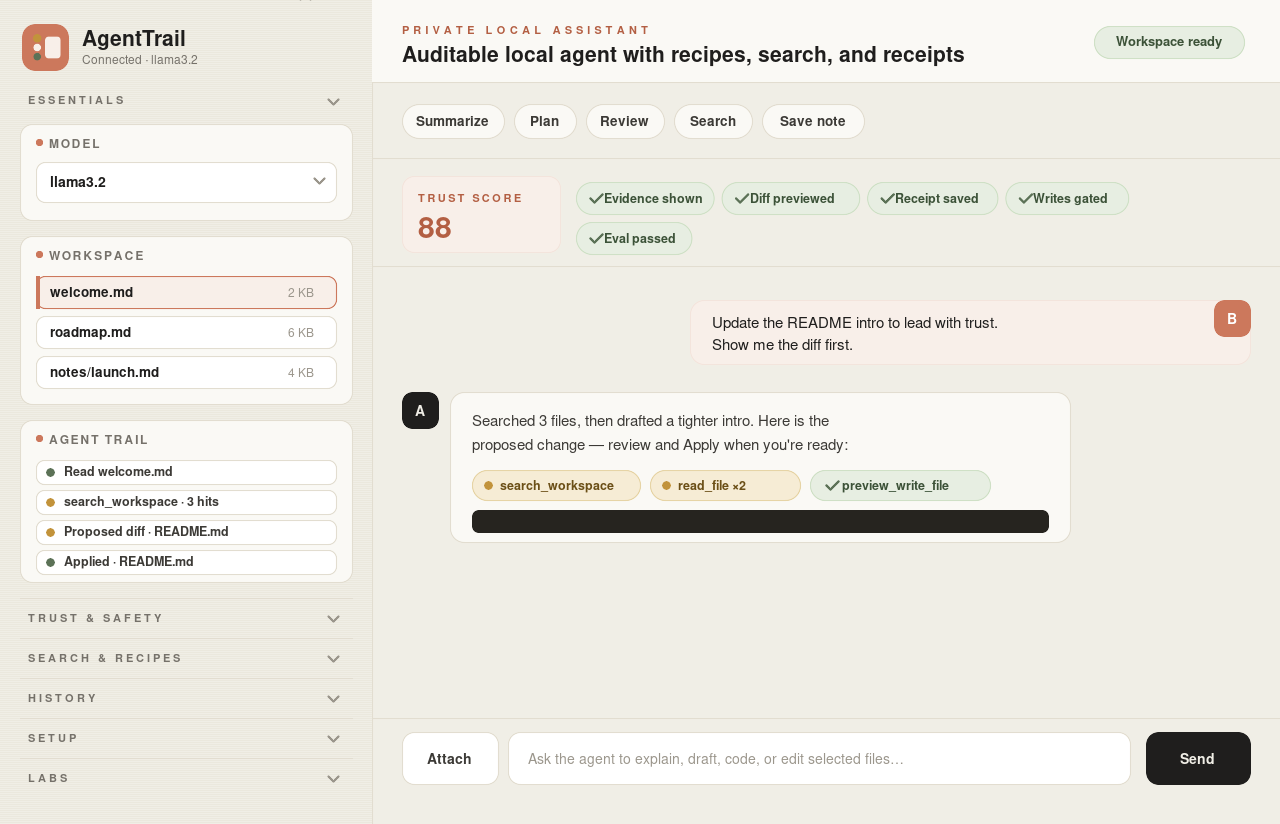
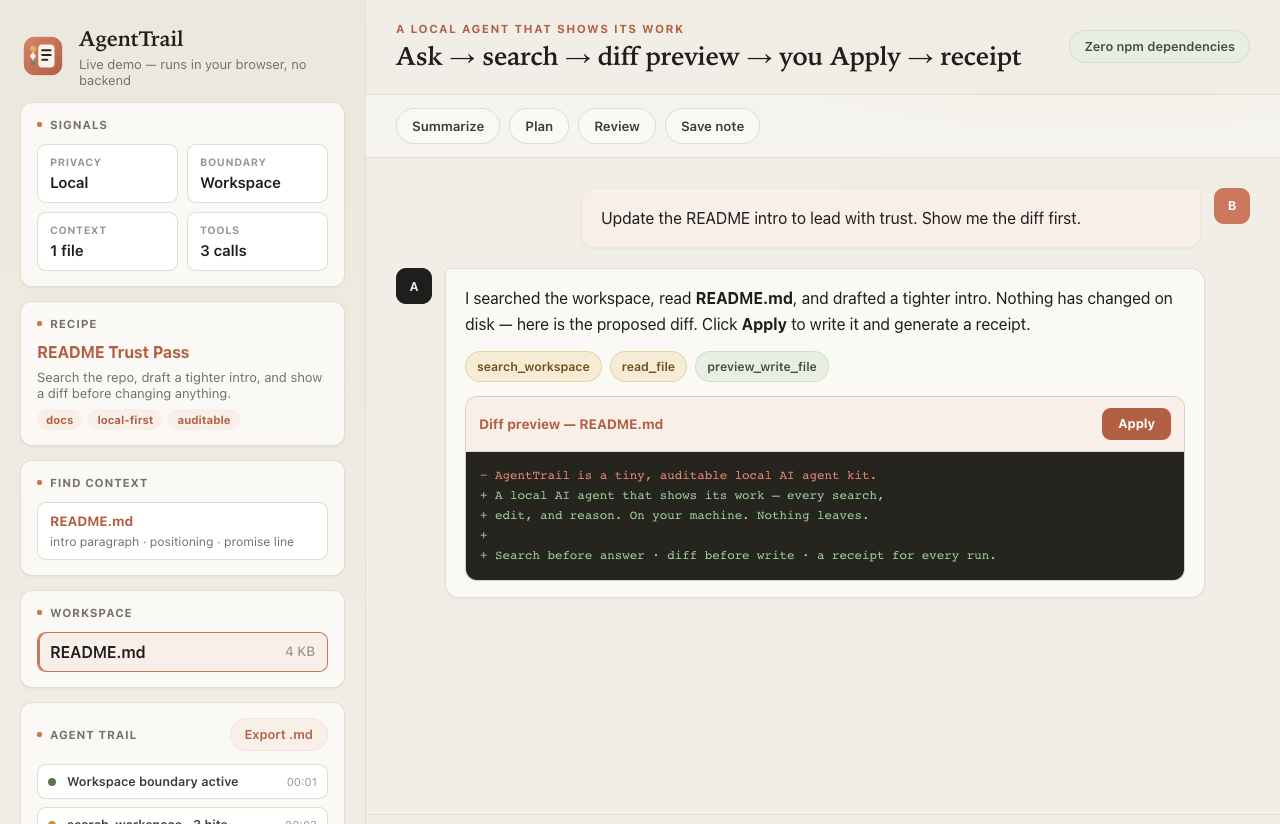
Refresh GitHub visual assets

diff --git a/docs/social-preview.html b/docs/social-preview.html
@@ -1,0 +1,232 @@
+<!doctype html>
+<html lang="en">
+  <head>
+    <meta charset="utf-8" />
+    <meta name="viewport" content="width=device-width, initial-scale=1" />
+    <title>AgentTrail Social Preview</title>
+    <style>
+      :root {
+        --bg: #f0eee6;
+        --panel: #faf9f5;
+        --ink: #1f1e1d;
+        --muted: #75716a;
+        --line: #e2ddd0;
+        --clay: #cc785c;
+        --clay-deep: #b35f43;
+        --clay-soft: #f8efe9;
+        --sage: #5c7257;
+        --sage-soft: #e7eee2;
+        --amber: #c2933b;
+      }
+
+      * { box-sizing: border-box; }
+      html, body { width: 1280px; height: 640px; margin: 0; overflow: hidden; }
+      body {
+        display: grid;
+        place-items: center;
+        background:
+          radial-gradient(780px 420px at 84% 4%, rgba(204, 120, 92, 0.12), transparent 62%),
+          linear-gradient(135deg, #f7f4eb 0%, var(--bg) 54%, #ebe8dd 100%);
+        color: var(--ink);
+        font-family: ui-sans-serif, system-ui, -apple-system, BlinkMacSystemFont, "Segoe UI", sans-serif;
+      }
+
+      .card {
+        position: relative;
+        width: 1180px;
+        height: 540px;
+        padding: 54px 58px;
+        border: 1px solid var(--line);
+        border-radius: 30px;
+        background: rgba(250, 249, 245, 0.9);
+        box-shadow: 0 30px 80px rgba(31, 30, 29, 0.12);
+        overflow: hidden;
+      }
+
+      .card::after {
+        content: "";
+        position: absolute;
+        right: -60px;
+        bottom: -80px;
+        width: 470px;
+        height: 470px;
+        border: 1px solid rgba(204, 120, 92, 0.22);
+        border-radius: 50%;
+      }
+
+      .brand {
+        display: flex;
+        align-items: center;
+        gap: 18px;
+      }
+
+      .logo {
+        width: 70px;
+        height: 70px;
+        border-radius: 18px;
+        background: var(--clay);
+        display: grid;
+        place-items: center;
+        box-shadow: inset 0 -10px 18px rgba(179, 95, 67, 0.22);
+      }
+
+      .logo svg { width: 48px; height: 48px; }
+
+      .brand strong {
+        display: block;
+        font-family: Georgia, "Times New Roman", serif;
+        font-size: 38px;
+        line-height: 1;
+        letter-spacing: -0.02em;
+      }
+
+      .brand span {
+        display: block;
+        margin-top: 7px;
+        color: var(--muted);
+        font-size: 17px;
+        font-weight: 600;
+      }
+
+      h1 {
+        max-width: 660px;
+        margin: 58px 0 0;
+        font-family: Georgia, "Times New Roman", serif;
+        font-size: 63px;
+        line-height: 1.02;
+        letter-spacing: -0.03em;
+      }
+
+      .promise {
+        max-width: 610px;
+        margin-top: 24px;
+        color: #3c3a36;
+        font-size: 24px;
+        line-height: 1.32;
+      }
+
+      .loop {
+        display: flex;
+        flex-wrap: wrap;
+        gap: 10px;
+        margin-top: 30px;
+      }
+
+      .loop span {
+        padding: 10px 15px;
+        border: 1px solid var(--line);
+        border-radius: 999px;
+        background: #fff;
+        color: #3c3a36;
+        font-size: 16px;
+        font-weight: 750;
+      }
+
+      .loop span:nth-child(2) { background: #fff4d8; border-color: #e6d4a6; color: #6b4f17; }
+      .loop span:nth-child(3) { background: var(--clay-soft); border-color: #f3e4dc; color: var(--clay-deep); }
+      .loop span:nth-child(4) { background: var(--sage-soft); border-color: #cfe0c6; color: #3c5238; }
+
+      .proof {
+        position: absolute;
+        right: 58px;
+        top: 106px;
+        width: 330px;
+        display: grid;
+        gap: 14px;
+      }
+
+      .proof-card {
+        padding: 18px 20px;
+        border: 1px solid var(--line);
+        border-radius: 18px;
+        background: rgba(255, 255, 255, 0.78);
+      }
+
+      .proof-card small {
+        display: block;
+        color: var(--muted);
+        font-size: 12px;
+        font-weight: 800;
+        letter-spacing: 0.12em;
+        text-transform: uppercase;
+      }
+
+      .proof-card strong {
+        display: block;
+        margin-top: 8px;
+        color: var(--clay-deep);
+        font-size: 24px;
+      }
+
+      .score {
+        display: flex;
+        align-items: center;
+        justify-content: space-between;
+        gap: 20px;
+        background: var(--clay-soft);
+        border-color: #f3e4dc;
+      }
+
+      .score strong {
+        margin: 0;
+        font-family: Georgia, "Times New Roman", serif;
+        font-size: 58px;
+        line-height: 1;
+      }
+
+      .url {
+        position: absolute;
+        left: 58px;
+        bottom: 36px;
+        color: var(--muted);
+        font-size: 18px;
+        font-weight: 700;
+      }
+    </style>
+  </head>
+  <body>
+    <section class="card" aria-label="AgentTrail social preview">
+      <div class="brand">
+        <div class="logo" aria-hidden="true">
+          <svg viewBox="0 0 64 64" fill="none" xmlns="http://www.w3.org/2000/svg">
+            <rect x="34" y="14" width="18" height="36" rx="5" fill="#F8EFE9"/>
+            <circle cx="18" cy="18" r="5" fill="#C2933B"/>
+            <circle cx="18" cy="32" r="5" fill="#F8EFE9"/>
+            <circle cx="18" cy="46" r="5" fill="#5C7257"/>
+            <path d="M23 18H34M23 32H34M23 46H34" stroke="#F8EFE9" stroke-width="4" stroke-linecap="round"/>
+          </svg>
+        </div>
+        <div>
+          <strong>AgentTrail</strong>
+          <span>Local AI agent for private workspaces</span>
+        </div>
+      </div>
+
+      <h1>A local AI agent that shows its work.</h1>
+      <p class="promise">Every search. Every edit. Every reason. On your machine. Nothing leaves.</p>
+      <div class="loop" aria-label="Core loop">
+        <span>Search first</span>
+        <span>Preview diff</span>
+        <span>You click Apply</span>
+        <span>Replayable receipt</span>
+      </div>
+
+      <aside class="proof" aria-label="Trust proof">
+        <div class="proof-card score">
+          <small>Trust Score</small>
+          <strong>88</strong>
+        </div>
+        <div class="proof-card">
+          <small>Safety</small>
+          <strong>Writes gated by diff</strong>
+        </div>
+        <div class="proof-card">
+          <small>Runtime</small>
+          <strong>Ollama + zero npm deps</strong>
+        </div>
+      </aside>
+
+      <div class="url">github.com/Mughal-Baig/local-ai-agent</div>
+    </section>
+  </body>
+</html>

diff --git a/README.md b/README.md
@@ -27,6 +27,13 @@ A calm, grouped workspace: model and files up top, every tool call logged in the
 
 Writes are off by default. The agent proposes a unified diff; you click **Apply**; the run becomes a receipt you can reopen, export, and replay.
 
+## GitHub Visual Assets
+
+- Hero GIF: [`docs/agenttrail-demo.gif`](docs/agenttrail-demo.gif)
+- UI preview: [`docs/preview-app.png`](docs/preview-app.png)
+- Diff preview: [`docs/preview-diff.png`](docs/preview-diff.png)
+- Social preview upload asset: [`docs/social-preview.png`](docs/social-preview.png)
+
 ## Why Star This
 
 - **Transparent by default**: every tool call is shown as an Agent Trail receipt.
